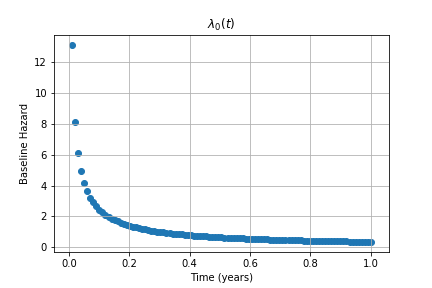
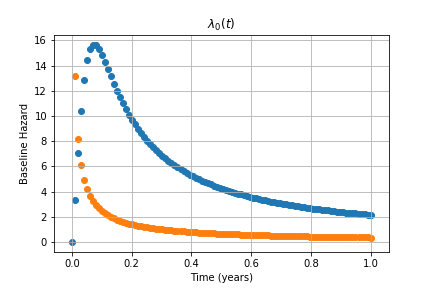
Paul 3.0

Changed region(s): [[0.0602, 0.125, 0.9028, 0.9375]]

diff --git a/HW 2/main.py b/HW 2/main.py
@@ -42,8 +42,9 @@ covar_cols = ['cpn_gap', 'summer']
 covars = static_df[covar_cols].values
 np.random.seed(42)
 param = np.random.uniform(size=len(covar_cols) + 2)
-tb = static_df['period_begin'].values/365
-te = static_df['period_end'].values/365
+#param = np.array([0.01, 0.02, 0.2, 0.04])
+tb = static_df['period_begin'].values
+te = static_df['period_end'].values
 event = static_df['prepay'].values
 
 eps = np.finfo(float).eps
@@ -73,6 +74,7 @@ print('gamma =', gamma, '\np =', p, '\nCoupon Gap Coef =', beta[0],
 print('\nRespective Standard Errors:', ', '.join(std_err.round(2).astype(str)))
 print('\nProportional Standard Errors:', ', '.join(prop_std_err.round(
         1).astype(str)))
+
 # %%
 # Plot the baseline hazard rate
 t = np.linspace(0, 1, 100)
@@ -104,7 +106,7 @@ zero_df.columns = ['DATE', 'ZERO']
 zero_df['ZERO'] /= 100.
 # Drop rows with NA Zero rates
 zero_df.dropna(subset=['ZERO'], inplace=True)
-# The last row has a date missing. Fill it
+# The last row has a date missing. Fill itlibor_df
 zero_df.loc[zero_df.index[-1], 'DATE'] = zero_df.loc[
         zero_df.index[-2], 'DATE'] + pd.DateOffset(months=3)
 # Calculate discount rates
@@ -126,8 +128,8 @@ covar_cols = ['cpn_gap', 'summer']
 covars = dynamic_df[covar_cols].values
 # Provide guess = static estimation
 param = np.array([14.5, 2.1, 22.5, -2.4])
-tb = dynamic_df['period_begin'].values/365
-te = dynamic_df['period_end'].values/365
+tb = dynamic_df['period_begin'].values
+te = dynamic_df['period_end'].values
 event = dynamic_df['prepay'].values
 
 eps = np.finfo(float).eps
